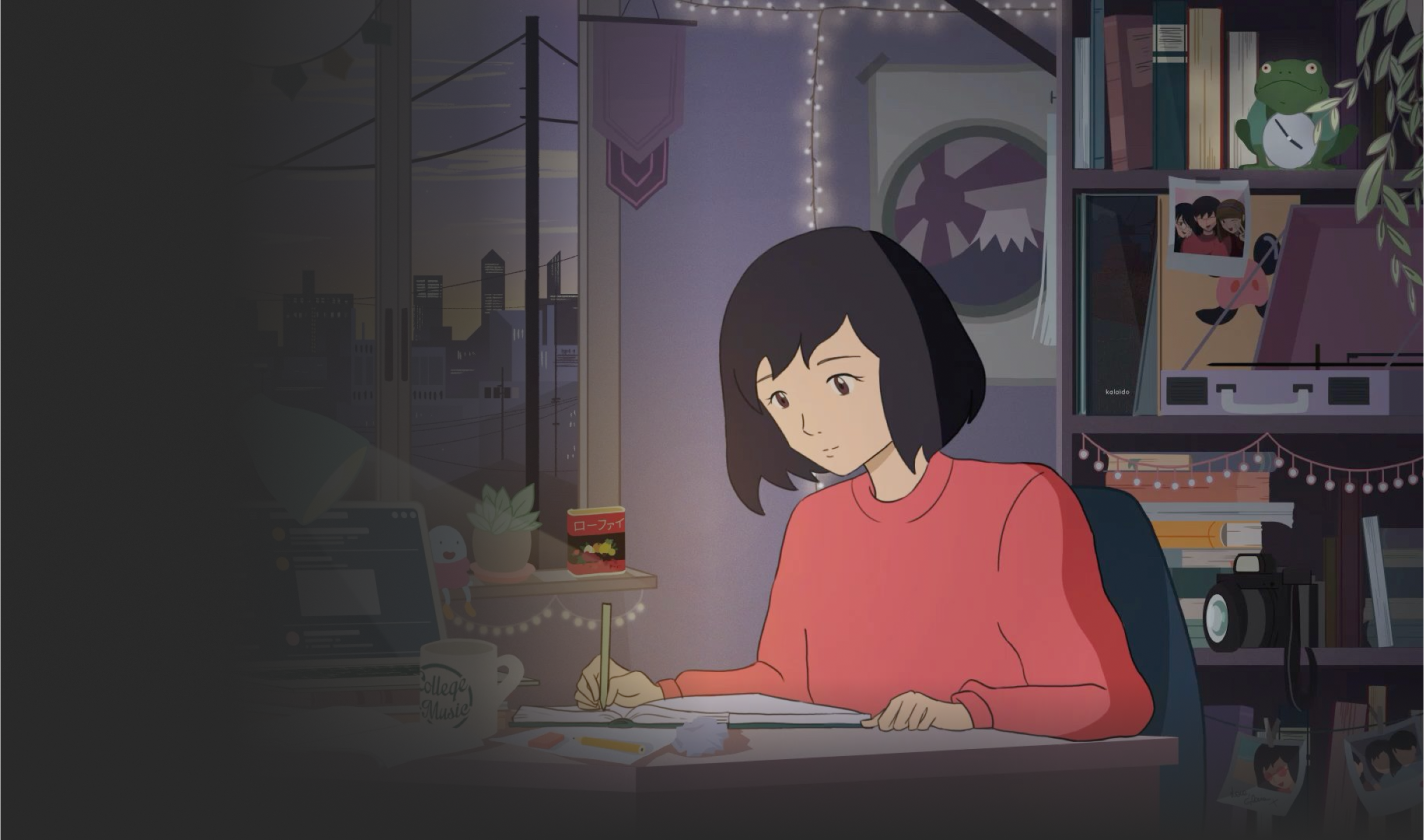
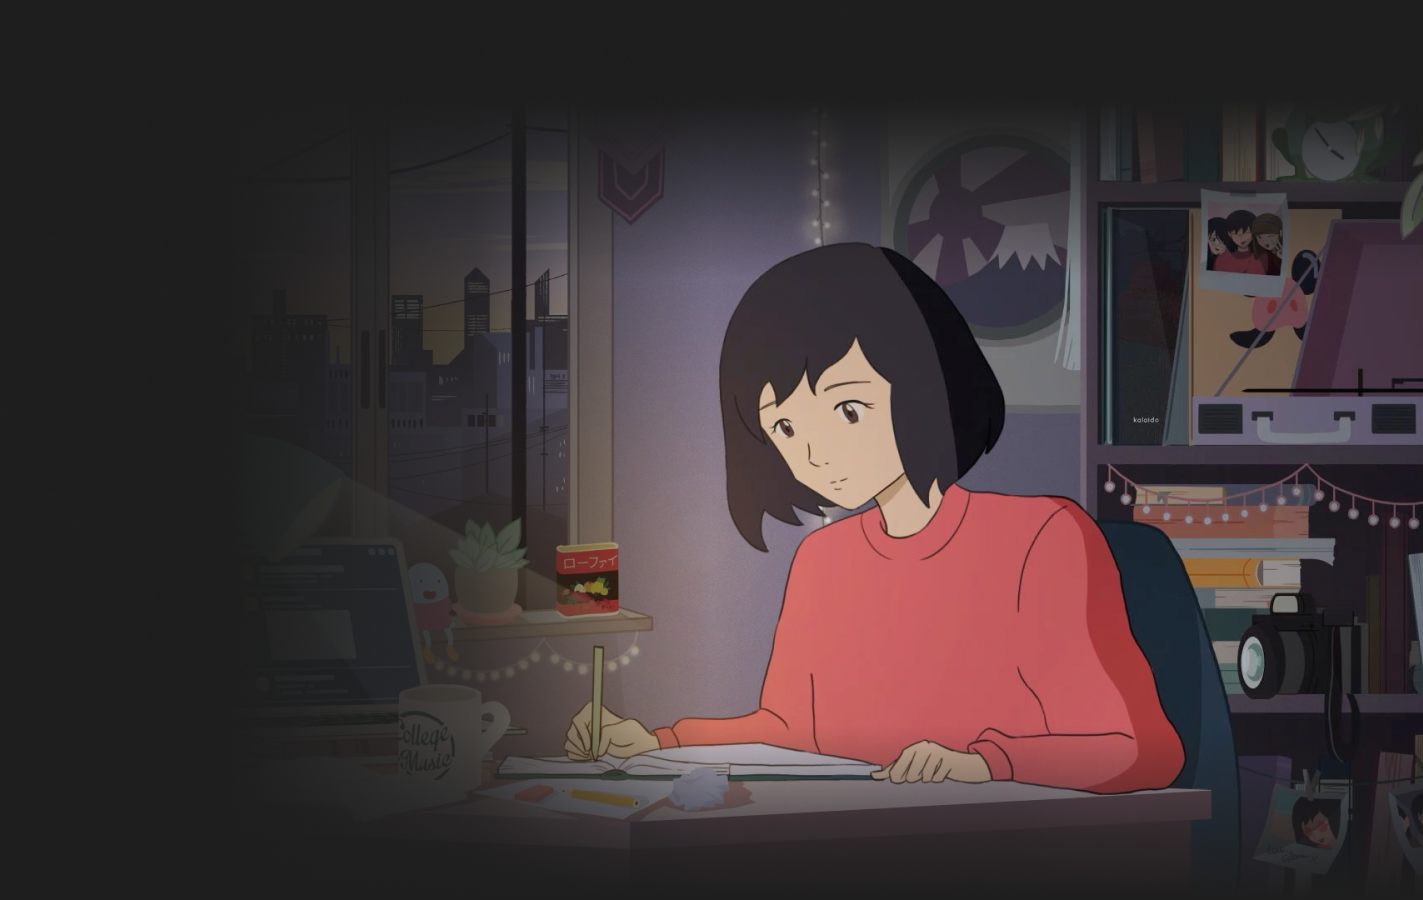
enhancements hero+nav

diff --git a/style.css b/style.css
@@ -8,6 +8,7 @@ html {
   --light-gray: #e9e9e9;
   --dusty-white: #f7f6f3;
   --dirty-white: #e8e7e4;
+  --red: #ff4742;
   --gradient1: linear-gradient(
     117.03deg,
     #328bb3 0%,
@@ -50,11 +51,12 @@ h1 {
 }
 
 h5 {
-  font-weight: 400;
-  font-size: 15px;
+  font-weight: 600;
+  font-size: 12px;
   margin: 10px 0 7px;
-  color: var(--medium-gray);
+  color: var(--light-gray);
   cursor: default;
+  text-transform: uppercase;
 }
 
 p {
@@ -66,30 +68,33 @@ p {
 
 /* Components  */
 
-.btn-small-grad1 {
+.btn-small-primary {
   font-size: 12px;
   font-weight: 500;
   padding: 0.7em 1.7em;
   border-radius: 3px;
-  background: var(--gradient1);
+  background: var(--red);
   text-decoration: none;
   color: white;
   cursor: pointer;
+  text-transform: uppercase;
+  transition: opacity 0.3s;
 }
-.btn-small-grad1:hover {
-  background: var(--gradient2);
+.btn-small-primary:hover {
+  opacity: 0.7;
 }
 
 .btn-big-cta {
   display: inline-block;
   text-align: center;
-  background: var(--gradient1);
-  color: white;
+  background: var(--red);
+  color: var(--dark-black);
   padding: 1em 1.5em;
   border-radius: 3px;
+  transition: opacity 0.3s;
 }
 .btn-big-cta:hover {
-  background: var(--gradient2);
+  opacity: 0.7;
 }
 
 a.btn-big-cta {
@@ -100,6 +105,7 @@ a.btn-big-cta {
 header {
   background-color: var(--dark-black);
   width: 100vw;
+  border: 2px solid var(--dark-gray);
 }
 .header-container {
   display: flex;
@@ -123,6 +129,7 @@ header {
   padding: 15px;
   cursor: pointer;
   position: relative;
+  transition: background 0.2s ease-in-out;
 }
 .navigation li:hover {
   color: white;
@@ -140,7 +147,6 @@ header {
   bottom: 0;
   left: 50%;
   transform: translateX(-50%);
-  /*transform-origin: bottom center;*/
   transition: height 0.3s ease-in-out;
 }
 
@@ -180,7 +186,7 @@ header {
   margin-top: -15px;
 }
 .darkmode-toggle p {
-  color: black;
+  color: var(--medium-gray);
   font-size: 14px;
 }
 .toggle {
@@ -244,22 +250,23 @@ div.hero-container {
 
 @media screen and (min-width: 740px) {
   /*  Header */
-  .navigation {
-    display: flex;
-    margin-left: auto;
-    list-style: none;
-    color: var(--medium-gray);
-    font-size: 14px;
-  }
-
-  .menu-hamburger {
-    display: none;
-  }
-
   .header-container {
     max-width: 1000px;
     margin: auto;
     padding: 0 2rem;
+  }
+
+  .navigation {
+    display: flex;
+    margin-right: auto;
+    list-style: none;
+    color: var(--medium-gray);
+    font-size: 14px;
+    font-weight: 600;
+  }
+
+  .menu-hamburger {
+    display: none;
   }
 
   .search-icon {
@@ -274,7 +281,7 @@ div.hero-container {
   .settings-icon:focus .settings-rolldown-menu {
     opacity: 1;
     pointer-events: all;
-    transform: translateY(-3px);
+    transform: translateY(-2px);
     z-index: 1;
   }
 
@@ -288,10 +295,10 @@ div.hero-container {
     padding: 1em 1.5em;
     border-radius: 3px;
     font-size: 14px;
-    color: black;
-    background: white;
+    color: var(--medium-gray);
+    background: var(--dark-black);
     box-shadow: 0px 0px 20px rgba(0, 0, 0, 0.15);
-    border: 0.5px solid rgba(0, 0, 0, 0.12);
+    border: 2px solid var(--dark-gray);
     border-radius: 6px;
     opacity: 0;
     pointer-events: none;
@@ -302,15 +309,15 @@ div.hero-container {
     border-radius: 5px;
   }
   .settings-rolldown-menu li:hover {
-    background-color: var(--dusty-white);
-    color: dodgerblue;
+    background-color: var(--medium-black);
+    color: white;
   }
 
   /* Hero Section  */
 
   .hero {
     height: 90vh;
-    background-image: url(https://i.ibb.co/VV88xmL/Hero-background-142x840.png);
+    background-image: url(https://i.ibb.co/0qpv5C4/Hero-background-1420x840.png);
     background-repeat: no-repeat;
     background-size: cover;
     background-position: left;
@@ -342,7 +349,7 @@ div.hero-container {
   .hero p {
     font-size: 20px;
     text-align: left;
-    width: 350px;
+    width: 370px;
     padding-left: 0;
     line-height: 1.4;
   }
@@ -350,7 +357,7 @@ div.hero-container {
   a.btn-big-cta {
     display: inline-block;
     text-align: left;
-    background: var(--gradient1);
+    background: var(--red);
     color: white;
     padding: 1em 1.5em;
     border-radius: 3px;

diff --git a/index.html b/index.html
@@ -44,14 +44,14 @@
           </div>
         </ul>
       </a>
-      <a href="#" class="btn-small-grad1">M'inscrire</a>
+      <a href="#" class="btn-small-primary">Inscris Toi</a>
     </div>
   </header>
   <main>
     <section class="hero">
       <div class="hero-container">
         <h1>Traduis tes idées en musique</h1>
-        <p>Apprend les techniques, les outils et la philosophie pour traduire tes idées en musique.</p>
+        <p>Apprend les techniques, les outils et la philosophie pour créer et rester créatif.</p>
         <a href="#" class="btn-big-cta">Choisir une formation</a>
       </div>
     </section>

diff --git a/podcast.html b/podcast.html
@@ -1,0 +1,12 @@
+<!DOCTYPE html>
+<html lang="en">
+<head>
+  <meta charset="UTF-8">
+  <meta name="viewport" content="width=device-width, initial-scale=1.0">
+  <link rel="stylesheet" href="style.css">
+  <title>Podcast - Bienvenu sur la voie musicale</title>
+</head>
+<body>
+  
+</body>
+</html>
